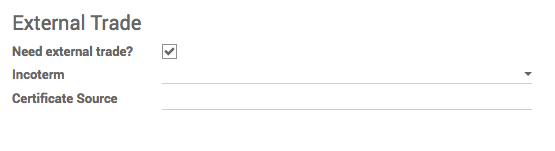
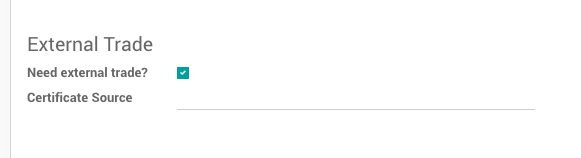
[IMP] l10n_mx_edi_external_trade: Use the Odoo field to incoterm
Now Odoo add the incoterm field in account module, We do not need add
this field again.

Removed field in the view and change references to use the Odoo field.

Was added a TODO to remove the field on master and was changed the label
to avoid the warning:
```Two fields (l10n_mx_edi_incoterm, incoterm_id) of account.invoice() have
the same label: Incoterm.```

**Extra** fixed the test to use the correct model

closes odoo/enterprise#2768

diff --git a/l10n_mx_edi_external_trade/tests/test_external_trade.py b/l10n_mx_edi_external_trade/tests/test_external_trade.py
@@ -14,7 +14,7 @@ class TestL10nMxEdiExternalTrade(InvoiceTransactionCase):
         isr_tag = self.env['account.account.tag'].search(
             [('name', '=', 'ISR')])
         self.tax_negative.tag_ids |= isr_tag
-        unit = self.env.ref('product.product_uom_unit')
+        unit = self.env.ref('uom.product_uom_unit')
         self.tariff = self.ref(
             'l10n_mx_edi_external_trade.tariff_fraction_84289099')
         self.product.write({
@@ -26,6 +26,7 @@ class TestL10nMxEdiExternalTrade(InvoiceTransactionCase):
             'cce11': 'http://www.sat.gob.mx/ComercioExterior11',
         }
         self.set_currency_rates(mxn_rate=1, usd_rate=1)
+        self.incoterm = self.ref('account.incoterm_FCA')
 
     def test_l10n_mx_edi_invoice_external_trade(self):
         self.xml_expected_str = misc.file_open(os.path.join(
@@ -61,7 +62,7 @@ class TestL10nMxEdiExternalTrade(InvoiceTransactionCase):
         # -----------------------
 
         invoice = self.create_invoice()
-        invoice.l10n_mx_edi_incoterm = 'FCA'
+        invoice.incoterm_id = self.incoterm
         invoice.action_invoice_open()
         self.assertEqual(invoice.l10n_mx_edi_pac_status, "signed",
                          invoice.message_ids.mapped('body'))
@@ -78,7 +79,7 @@ class TestL10nMxEdiExternalTrade(InvoiceTransactionCase):
         # -------------------------
         # Testing case UMT Aduana, l10n_mx_edi_code_aduana == 1
         # -------------------------
-        kg = self.env.ref('product.product_uom_kgm')
+        kg = self.env.ref('uom.product_uom_kgm')
         kg.l10n_mx_edi_code_aduana = '01'
         self.product.write({
             'weight': 2,
@@ -87,7 +88,7 @@ class TestL10nMxEdiExternalTrade(InvoiceTransactionCase):
                 'l10n_mx_edi_external_trade.tariff_fraction_72123099'),
         })
         invoice = self.create_invoice()
-        invoice.l10n_mx_edi_incoterm = 'FCA'
+        invoice.incoterm_id = self.incoterm
         invoice.action_invoice_open()
         line = invoice.invoice_line_ids
         self.assertEqual(line.l10n_mx_edi_qty_umt,
@@ -105,7 +106,7 @@ class TestL10nMxEdiExternalTrade(InvoiceTransactionCase):
                 'l10n_mx_edi_external_trade.tariff_fraction_27101299'),
         })
         invoice = self.create_invoice()
-        invoice.l10n_mx_edi_incoterm = 'FCA'
+        invoice.incoterm_id = self.incoterm
         # Manually add the value Qty UMT
         line = invoice.invoice_line_ids
         self.assertEqual(line.l10n_mx_edi_qty_umt, 0,

diff --git a/l10n_mx_edi_external_trade/models/account_invoice.py b/l10n_mx_edi_external_trade/models/account_invoice.py
@@ -7,6 +7,7 @@ import odoo.addons.decimal_precision as dp
 class AccountInvoice(models.Model):
     _inherit = 'account.invoice'
 
+    # TODO - Remove in master
     l10n_mx_edi_incoterm = fields.Selection(
         [('CIP', 'CARRIAGE AND INSURANCE PAID TO'),
          ('CPT', 'CARRIAGE PAID TO'),
@@ -23,7 +24,7 @@ class AccountInvoice(models.Model):
          ('FAS', 'FREE ALONGSIDE SHIP'),
          ('FCA', 'FREE CARRIER'),
          ('FOB', 'FREE ON BOARD')],
-        string='Incoterm', help='Indicates the INCOTERM applicable to the '
+        help='Indicates the INCOTERM applicable to the '
         'external trade customer invoice.')
     l10n_mx_edi_cer_source = fields.Char(
         'Certificate Source',

diff --git a/l10n_mx_edi_external_trade/README.rst b/l10n_mx_edi_external_trade/README.rst
@@ -19,10 +19,6 @@ defined by the SAT.
     changed here if is one exception. If this field is actived, then will be
     showed the next fields:
 
-  - **Incoterm**: It is used for the attribute *incoterm* in the External Trade
-    node, is required, and must contain a value from the SAT catalog_ to
-    incoterms.
-
   - **Certificate Source**: If the document to be generated is a
     Certificate of Origin, must be registered the certificate of
     origin folio or the fiscal folio in CFDI with which the issuance of the
@@ -138,7 +134,6 @@ other hand, the optional node "DescripcionesEspecificas" will not be added
 in this version, since it needs fields that depend on the stock module.
 They will be added in a later version.
 
-.. _catalog: http://www.sat.gob.mx/informacion_fiscal/factura_electronica/Documents/c_INCOTERM.xls
 .. _c_FraccionArancelaria: http://www.sat.gob.mx/informacion_fiscal/factura_electronica/Documents/c_FraccionArancelaria.xls 
 .. _Link: http://www.sat.gob.mx/informacion_fiscal/factura_electronica/Documents/c_UnidadMedidaAduana.xls
 .. _c_colonia: http://www.sat.gob.mx/informacion_fiscal/factura_electronica/Documents/c_Colonia.xls
